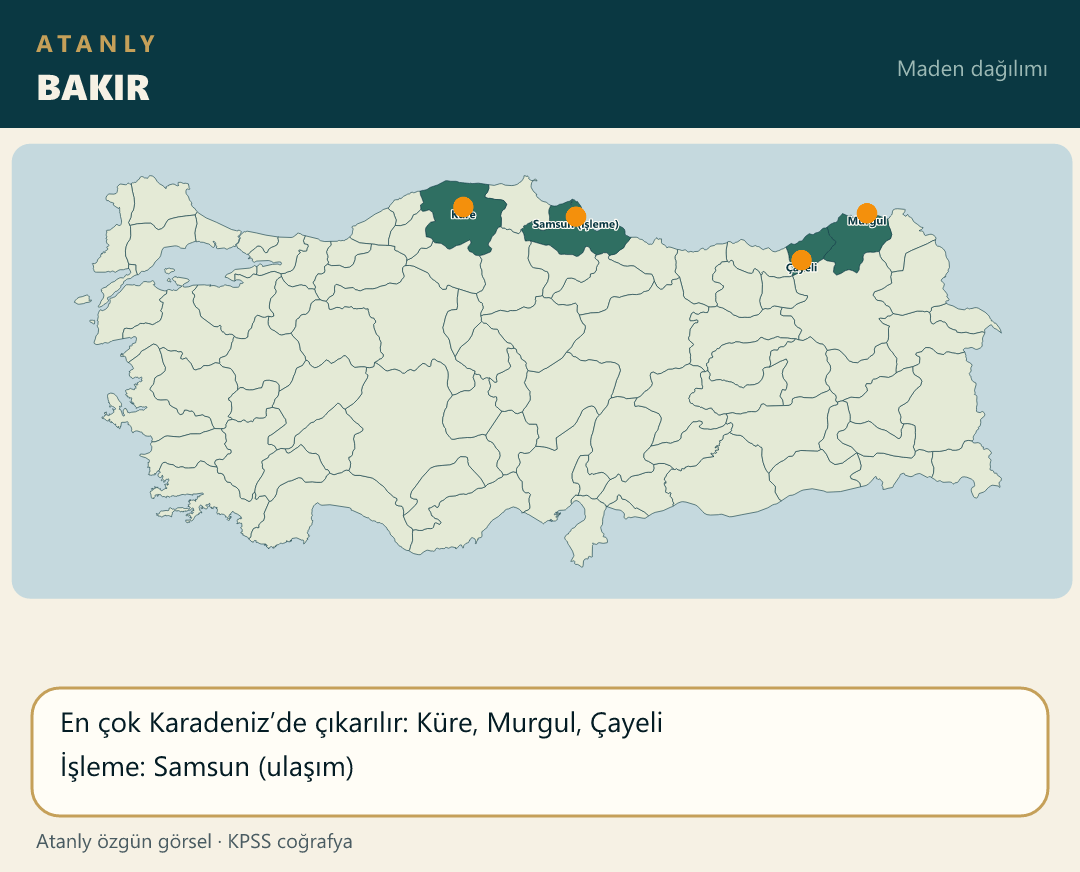
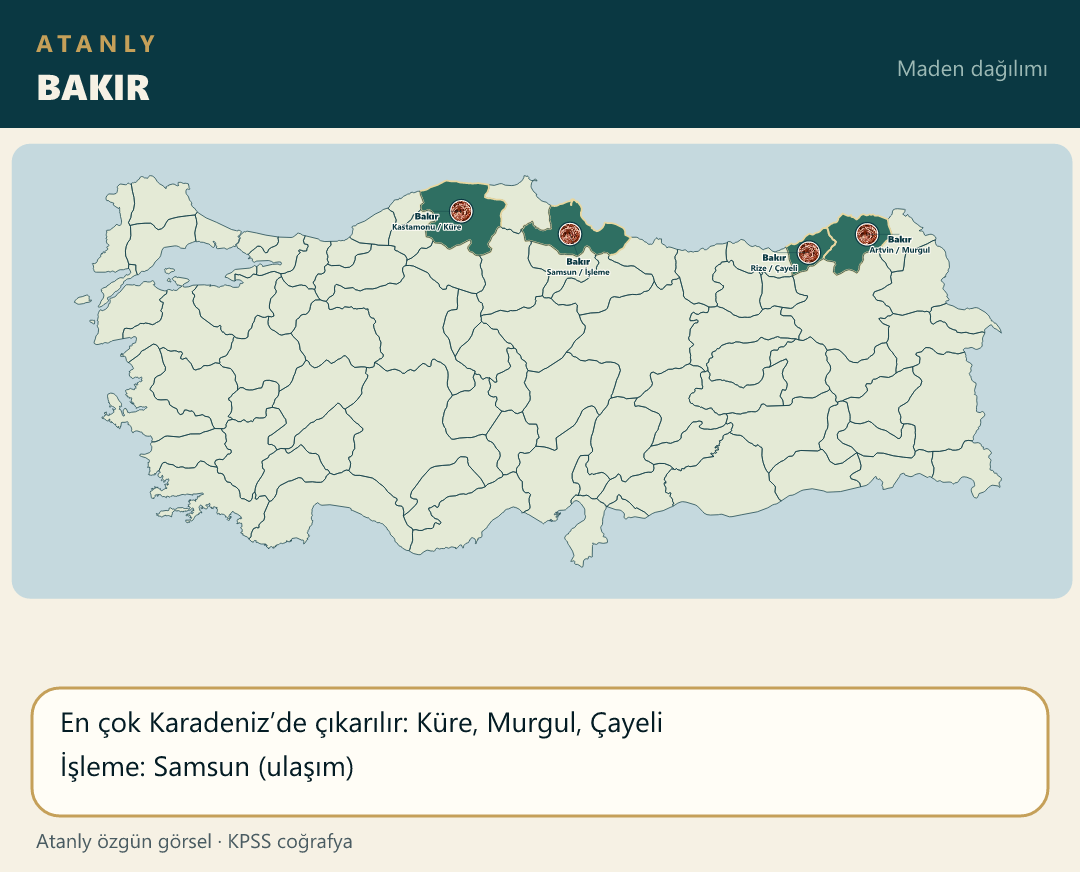
Place the copper wire photo on Black Sea bakır mine and processing pins.

diff --git a/scripts/build-atanly-maps.js b/scripts/build-atanly-maps.js
@@ -988,8 +988,13 @@ function main() {
         { file: "maden_demir.png", title: "DEMİR", iller: ["Sivas", "Malatya", "Karabük", "Zonguldak", "Hatay"],
             yazilar: ["Divriği", "Hekimhan", "Karabük", "Ereğli", "İskenderun"],
             facts: ["Çıkarım: Divriği, Hekimhan, Hasançelebi", "Karabük–Ereğli: taşkömürüne yakınlık", "İskenderun: ulaşım + ithal kömür, su kenarı"] },
-        { file: "maden_bakir.png", title: "BAKIR", iller: ["Kastamonu", "Artvin", "Rize", "Samsun"],
-            yazilar: ["Küre", "Murgul", "Çayeli", "Samsun (işleme)"],
+        { file: "maden_bakir.png", title: "BAKIR", urun: "Bakır",
+            noktalar: [
+                { il: "Kastamonu", ilce: "Küre", ldx: -34, ldy: 8 },
+                { il: "Samsun", ilce: "İşleme", ldx: 8, ldy: 30 },
+                { il: "Rize", ilce: "Çayeli", ldx: -34, ldy: 8 },
+                { il: "Artvin", ilce: "Murgul", ldx: 32, ldy: 8 }
+            ],
             facts: ["En çok Karadeniz’de çıkarılır: Küre, Murgul, Çayeli", "İşleme: Samsun (ulaşım)"] },
         { file: "maden_boksit.png", title: "BOKSİT (ALÜMİNYUM)", iller: ["Antalya", "Konya"],
             yazilar: ["Akseki", "Seydişehir"],

diff --git a/notlar/cografya-21-not.js b/notlar/cografya-21-not.js
@@ -2,7 +2,7 @@
 (function () {
     function harita(src, alt) {
         return '<div class="mt-4 overflow-hidden rounded-xl border border-blue-200 dark:border-blue-700/50 bg-white dark:bg-slate-800 p-2">' +
-            '<img src="./src/img/' + src + '?v=13" alt="' + alt + ' Haritası" class="w-full h-auto rounded-lg object-contain" loading="lazy">' +
+            '<img src="./src/img/' + src + '?v=14" alt="' + alt + ' Haritası" class="w-full h-auto rounded-lg object-contain" loading="lazy">' +
             "</div>";
     }
 

diff --git a/index.html b/index.html
@@ -119,7 +119,7 @@
     <script src="notlar/cografya-18-not.js?v=17"></script>
     <script src="notlar/cografya-19-not.js?v=25"></script>
     <script src="notlar/cografya-20-not.js?v=1"></script>
-    <script src="notlar/cografya-21-not.js?v=6"></script>
+    <script src="notlar/cografya-21-not.js?v=7"></script>
     <script src="notlar/cografya-22-not.js?v=1"></script>
     <script src="notlar/cografya-23-not.js?v=1"></script>
     <script src="notlar/cografya-24-not.js?v=1"></script>
